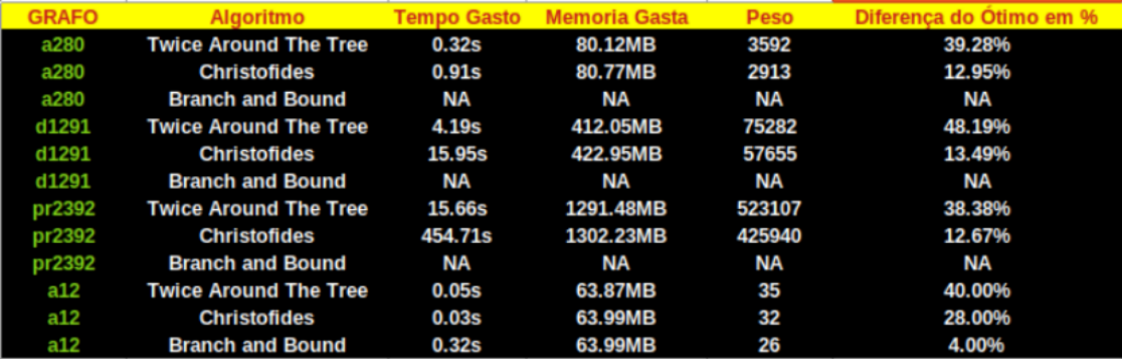
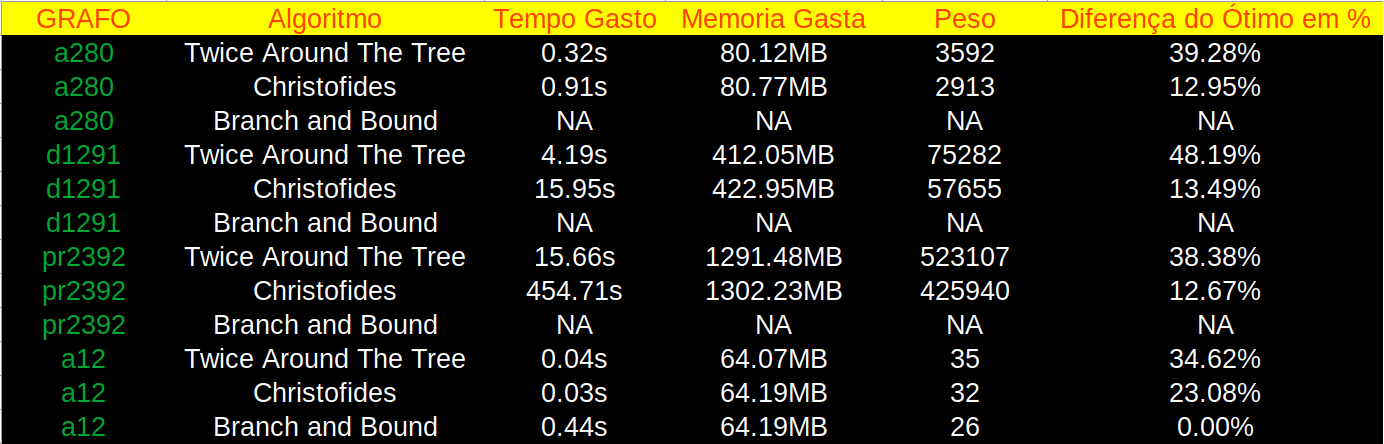
update table/dataset/function

diff --git a/algoritmos.py b/algoritmos.py
@@ -1,5 +1,4 @@
 import networkx as nx
-from heapq import heappush, heappop
 import numpy as np
 
 def TwiceAroundTheTree(grafo):
@@ -43,16 +42,16 @@ def BranchAndBound(grafo):
             self.limites_arestas = limites_arestas
             self.custo = custo
             self.solucao = solucao
-        
         def __lt__(self, outro):
             if len(self.solucao) == len(outro.solucao):
                 return self.limite < outro.limite
             return len(self.solucao) > len(outro.solucao)
 
     def encontrar_limite_inicial(grafo):
-        limite = 0
         limites_arestas_iniciais = np.zeros((grafo.number_of_nodes(), 2), dtype=object)
-        for i in range(1, grafo.number_of_nodes() + 1):
+        percorrer = grafo.number_of_nodes() + 1
+        limite = 0
+        for i in range(1, percorrer):
             pesos = [grafo[i][j]['weight'] for j in grafo[i]]
             pesos_ordenados = sorted(pesos)[:2]
             min1, min2 = pesos_ordenados + [np.inf] * (2 - len(pesos_ordenados))
@@ -65,7 +64,11 @@ def BranchAndBound(grafo):
         novos_limites = np.array(limites_arestas)
         peso_aresta = grafo[solucao[-2]][solucao[-1]]['weight']
         soma = limite * 2
-        for no in solucao[-2:]:
+        percorre = []
+        if len(solucao) >= 2:
+            percorre.append(solucao[-2])
+        percorre.append(solucao[-1])
+        for no in percorre:
             indice_no = no - 1
             if novos_limites[indice_no][0] != peso_aresta:
                 soma -= novos_limites[indice_no][arestas_alteradas[indice_no]]
@@ -75,13 +78,13 @@ def BranchAndBound(grafo):
         return soma / 2, novos_limites
 
     limite_inicial, limites_arestas_iniciais = encontrar_limite_inicial(grafo)
-    raiz = Vertice(limite_inicial, limites_arestas_iniciais, 0, [1])  
-    heap = []
-    heappush(heap, raiz)
+    raiz = Vertice(limite_inicial, limites_arestas_iniciais, 0, [1])
+    lista_vertices = [raiz]
     melhor_custo = np.inf
     contador_de_vertices = 0
-    while heap:
-        vertice_atual = heappop(heap)
+    while lista_vertices:
+        vertice_atual = min(lista_vertices)
+        lista_vertices.remove(vertice_atual)
         contador_de_vertices += 1
         nivel = len(vertice_atual.solucao)
         if nivel > grafo.number_of_nodes():
@@ -95,7 +98,7 @@ def BranchAndBound(grafo):
                         novo_limite, novas_arestas = encontrar_limite(grafo, vertice_atual.solucao + [k], vertice_atual.limites_arestas, vertice_atual.limite)
                         if novo_limite < melhor_custo:
                             novo_vertice = Vertice(novo_limite, novas_arestas, vertice_atual.custo + peso_aresta, vertice_atual.solucao + [k])
-                            heappush(heap, novo_vertice)
+                            lista_vertices.append(novo_vertice)
             elif vertice_atual.limite < melhor_custo and nivel >= grafo.number_of_nodes() - 2:
                 for k in range(1, grafo.number_of_nodes() + 1):
                     if k not in vertice_atual.solucao:
@@ -106,5 +109,5 @@ def BranchAndBound(grafo):
                         custo = vertice_atual.custo + peso_aresta + prox_peso_aresta + ultimo_peso_aresta
                         if custo < melhor_custo:
                             novo_vertice = Vertice(custo, [], custo, vertice_atual.solucao + [k, ultimo_no, 1])
-                            heappush(heap, novo_vertice)
+                            lista_vertices.append(novo_vertice)
     return melhor_custo
